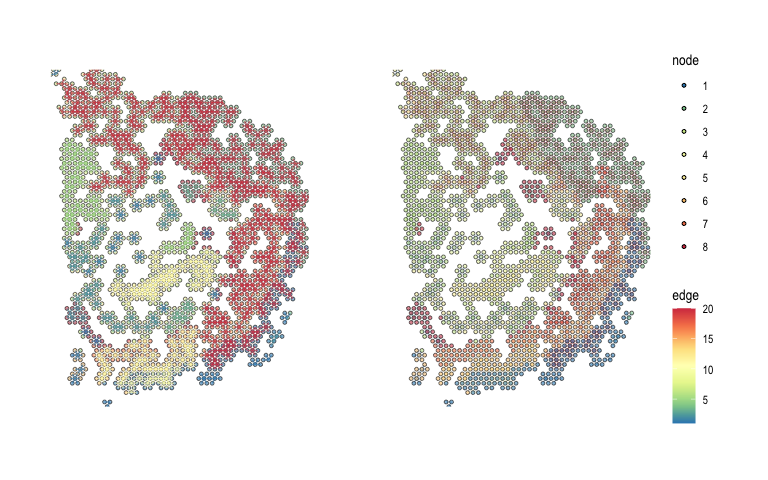
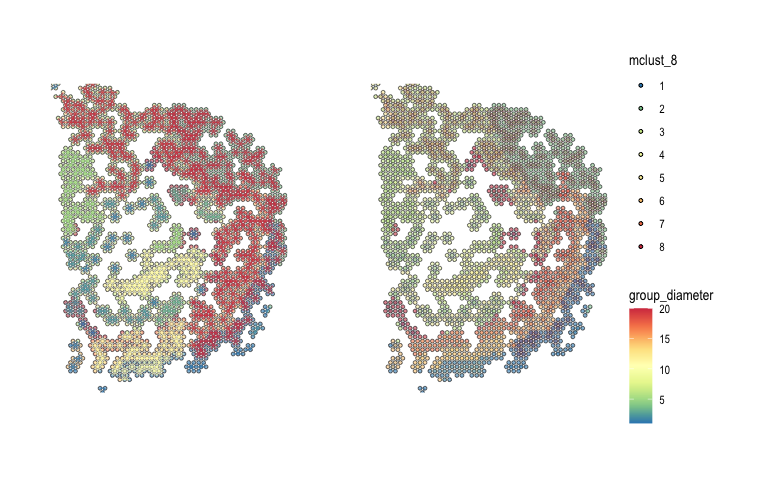
README.Rmd updated with tidy_up_ccc_graph().

diff --git a/README.md b/README.md
@@ -75,20 +75,20 @@ LRdb_m <-
 
 LRdb_m %>% 
   arrange(ligand_gene_symbol, receptor_gene_symbol)
-#> # A tibble: 104 × 10
+#> # A tibble: 105 × 10
 #>    LR    ligand_gene_symbol receptor_gene_symbol ligand_gene_id receptor_gene_id
 #>    <chr> <chr>              <chr>                         <dbl>            <dbl>
-#>  1 Adam… Adam12             Epha1                         11489            13835
-#>  2 Adam… Adam17             Aplp2                         11491            11804
-#>  3 Adam… Adam2              Itga9                         11495           104099
-#>  4 Adip… Adipoq             Adipor1                       11450            72674
-#>  5 Alka… Alkal2             Alk                       100294583            11682
-#>  6 Anxa… Anxa1              Dysf                          16952            26903
-#>  7 Apoe… Apoe               Scarb1                        11816            20778
-#>  8 Apoe… Apoe               Sdc1                          11816            20969
-#>  9 App_… App                Cd74                          11820            16149
+#>  1 Ada_… Ada                Dpp4                          11486            13482
+#>  2 Adam… Adam10             Il6ra                         11487            16194
+#>  3 Adam… Adam10             Notch1                        11487            18128
+#>  4 Adam… Adam17             Cd40                          11491            21939
+#>  5 Apoa… Apoa1              Abca1                         11806            11303
+#>  6 Apob… Apob               Cd36                         238055            12491
+#>  7 Apob… Apob               Lrp1                         238055            16971
+#>  8 Apob… Apob               Lrp2                         238055            14725
+#>  9 Apoe… Apoe               Sdc1                          11816            20969
 #> 10 App_… App                Dcc                           11820            13176
-#> # ℹ 94 more rows
+#> # ℹ 95 more rows
 #> # ℹ 5 more variables: ligand_ensembl_protein_id <chr>,
 #> #   receptor_ensembl_protein_id <chr>, ligand_ensembl_gene_id <chr>,
 #> #   receptor_ensembl_gene_id <chr>, evidence <chr>
@@ -148,7 +148,7 @@ ccc_tbl <- compute_spatial_ccc(spe = spe_brain,
                                assay_name = "logcounts",
                                LRdb = LRdb_m)
 tictoc::toc()
-#> 7.329 sec elapsed
+#> 7.124 sec elapsed
 
 # future::plan(future::sequential)
 ```
@@ -156,20 +156,20 @@ tictoc::toc()
 ``` r
 ccc_tbl %>% 
   dplyr::arrange(desc(LRscore))
-#> # A tibble: 141,605 × 10
+#> # A tibble: 131,750 × 10
 #>    src         dst       d norm.d LR    ligand receptor LRscore  weight WLRscore
 #>    <chr>       <chr> <dbl>  <dbl> <chr> <chr>  <chr>      <dbl>   <dbl>    <dbl>
-#>  1 GACGTGTAGG… GACG…    0    0    App_… App    Lrp10      0.859 Inf      Inf    
-#>  2 GGTGCTGGTA… GGTG…    0    0    App_… App    Cd74       0.852 Inf      Inf    
-#>  3 GGGCGGTCCT… GGGT…  138    1.01 Gnai… Gnai2  Cnr1       0.852   0.986    0.839
-#>  4 AAATAGCTTA… CTAG…  138    1.01 Gnai… Gnai2  Cnr1       0.851   0.986    0.838
-#>  5 CACCCAAATC… CTAG…  138.   1.01 Gnai… Gnai2  Cnr1       0.850   0.980    0.833
-#>  6 ACGGAATTTA… GGGT…  138.   1.01 Gnai… Gnai2  Cnr1       0.850   0.980    0.833
-#>  7 AGCTCTTTAC… GGTG…  138.   1.00 App_… App    Cd74       0.850   0.992    0.843
-#>  8 AACAGGATGG… GACG…  138.   1.01 App_… App    Lrp10      0.847   0.980    0.830
-#>  9 AGGACGACCC… GGTG…  138.   1.01 App_… App    Cd74       0.847   0.980    0.830
-#> 10 AGAAGGTTGC… GGTG…  138    1.01 App_… App    Cd74       0.847   0.986    0.834
-#> # ℹ 141,595 more rows
+#>  1 GGAGCGAGGC… CCTA…  138.   1.01 Ptn_… Ptn    Sdc2       0.848   0.980    0.830
+#>  2 TCCGTTTAGC… AGGG…  138.   1.01 Sst_… Sst    Sstr2      0.848   0.980    0.830
+#>  3 TATAGTTAGG… TACG…  138.   1.01 Ptn_… Ptn    Sdc2       0.847   0.980    0.830
+#>  4 GAGGTACGCG… CCTA…  138.   1.01 Ptn_… Ptn    Sdc2       0.843   0.987    0.832
+#>  5 TCGCGTCCAG… TCGC…    0    0    App_… App    Ncstn      0.842 Inf      Inf    
+#>  6 AGTCTGGACA… AGTC…    0    0    App_… App    Ncstn      0.841 Inf      Inf    
+#>  7 GCGAGAGTTG… GCGA…    0    0    Ptn_… Ptn    Sdc2       0.840 Inf      Inf    
+#>  8 GCGAGAGTTG… ACTT…  138.   1.01 Ptn_… Ptn    Sdc2       0.840   0.980    0.822
+#>  9 AACTTCTGCG… AGTC…  138    1.01 App_… App    Ncstn      0.838   0.986    0.826
+#> 10 CCCTCATTCT… GAGT…  138.   1.01 App_… App    Ncstn      0.836   0.980    0.819
+#> # ℹ 131,740 more rows
 ```
 
 ``` r
@@ -191,7 +191,7 @@ ccc_graph_list <-
   to_spatial_ccc_graph_list(ccc_tbl, sp_col_data, workers = 6)
 
 tictoc::toc()
-#> to_spatical_ccc_graph ...: 11.187 sec elapsed
+#> to_spatical_ccc_graph ...: 12.019 sec elapsed
 ```
 
 summarize_ccc_graph_metrics() summarize those graph metrics for each LR
@@ -204,26 +204,26 @@ ccc_graph_metrics_summary_df <-
   summarize_ccc_graph_metrics(ccc_graph_list)
 
 tictoc::toc()
-#> 0.059 sec elapsed
+#> 0.068 sec elapsed
 ```
 
 ``` r
 ccc_graph_metrics_summary_df %>%
   arrange(graph_component_count)
-#> # A tibble: 44 × 12
+#> # A tibble: 50 × 12
 #>    LR        graph_n_nodes graph_n_edges graph_component_count graph_motif_count
 #>    <chr>             <int>         <dbl>                 <dbl>             <int>
-#>  1 Nlgn1_Nr…          2627         11042                     3             20957
-#>  2 S100b_Al…          2657         13613                     3             24055
-#>  3 App_Lrp10          2646          9835                     5             19655
-#>  4 Rtn4_Rtn…          2590         11251                     5             20250
-#>  5 Sema6d_T…          2281          7492                     5             14186
-#>  6 Gnai2_Cn…          2527         11392                     6             20558
-#>  7 Calm2_Gr…          2542          8040                     9             16302
-#>  8 Vegfa_Sd…          1993          5096                    15              9112
-#>  9 Fgf9_Fgf…          2009          4942                    20              9532
-#> 10 Efna3_Ep…          1900          4272                    21              7666
-#> # ℹ 34 more rows
+#>  1 Egfl7_It…          2338          8135                     3             15373
+#>  2 App_Ncstn          2675         11287                     3             21977
+#>  3 Ptn_Sdc2           2608          9614                     3             18582
+#>  4 Cx3cl1_I…          2617         11724                     4             21978
+#>  5 S100a1_R…          2591         10689                     5             20094
+#>  6 Efnb3_Ep…          2381          7807                     6             15265
+#>  7 Bsg_Cav1           2237          4470                    23              9423
+#>  8 Wnt10a_F…            92            74                    32                48
+#>  9 Flt3l_Fl…            80            55                    34                14
+#> 10 Cxcl12_G…          1763          3223                    42              5310
+#> # ℹ 40 more rows
 #> # ℹ 7 more variables: graph_diameter <dbl>, graph_un_diameter <dbl>,
 #> #   graph_mean_dist <dbl>, graph_circuit_rank <dbl>, graph_reciprocity <dbl>,
 #> #   graph_clique_num <int>, graph_clique_count <int>
@@ -239,25 +239,25 @@ ccc_graph_group_metrics_summary_df <-
   summarize_ccc_graph_metrics(ccc_graph_list, level = "group")
 
 tictoc::toc()
-#> 0.058 sec elapsed
+#> 0.066 sec elapsed
 ```
 
 ``` r
 ccc_graph_group_metrics_summary_df 
-#> # A tibble: 3,154 × 12
-#>    LR         group group_n_nodes group_n_edges group_adhesion group_motif_count
-#>    <chr>      <int>         <int>         <dbl>          <dbl>             <int>
-#>  1 Wnt5a_Fzd3    66             4             4              0                 3
-#>  2 Wnt5a_Fzd3    25            15            23              0                34
-#>  3 Wnt5a_Fzd3     7            46           110              0               184
-#>  4 Wnt5a_Fzd3     1           183           383              0               727
-#>  5 Wnt5a_Fzd3     5            49            85              0               156
-#>  6 Wnt5a_Fzd3    84             2             1              0                 0
-#>  7 Wnt5a_Fzd3    17            21            26              0                48
-#>  8 Wnt5a_Fzd3    11            38           120              0               192
-#>  9 Wnt5a_Fzd3    20            18            31              0                55
-#> 10 Wnt5a_Fzd3     6            49            66              0               122
-#> # ℹ 3,144 more rows
+#> # A tibble: 3,855 × 12
+#>    LR       group group_n_nodes group_n_edges group_adhesion group_motif_count
+#>    <chr>    <int>         <int>         <dbl>          <dbl>             <int>
+#>  1 Bsg_Cav1     1          1913          3970              0              8432
+#>  2 Bsg_Cav1     6            18            23              0                44
+#>  3 Bsg_Cav1    19             5             5              0                 6
+#>  4 Bsg_Cav1     2            63           134              0               276
+#>  5 Bsg_Cav1    14             7             7              0                15
+#>  6 Bsg_Cav1     5            23            28              0                65
+#>  7 Bsg_Cav1     7            17            22              0                43
+#>  8 Bsg_Cav1    15             7             7              0                15
+#>  9 Bsg_Cav1    12             8            11              0                15
+#> 10 Bsg_Cav1     4            24            42              0                87
+#> # ℹ 3,845 more rows
 #> # ℹ 6 more variables: group_diameter <dbl>, group_un_diameter <dbl>,
 #> #   group_mean_dist <dbl>, group_girth <dbl>, group_circuit_rank <dbl>,
 #> #   group_reciprocity <dbl>
@@ -322,40 +322,55 @@ wrap_plots(gp_spccc, gp_spccc_0, ncol = 2)
 <img src="man/figures/README-plot-spatial-ccc-graph-tissue-image-1.png" width="100%" />
 
 ``` r
+ccc_graph_temp <-
+  ccc_graph_list[[LR_of_interest]] %>%
+  tidygraph::activate("edges") %>%
+  tidygraph::filter(mclust_8.src != mclust_8.dst) %>%
+  tidy_up_ccc_graph()
+
+cells_of_interest <-
+  ccc_graph_temp %>%
+  tidygraph::activate("nodes") %>%
+  dplyr::pull("name")
+```
+
+``` r
 gp_spccc <-
   plot_spatial_ccc_graph(
-    ccc_graph = 
-      ccc_graph_list[[LR_of_interest]] %>%
-      tidygraph::activate(edges) %>%
-      tidygraph::filter(mclust_8.src != mclust_8.dst),
-    tissue_img = imgRaster(spe_brain),
+    ccc_graph = ccc_graph_temp,
+    tissue_img = SpatialExperiment::imgRaster(spe_brain),
+    edges_expanded_to_group = FALSE,
     node_color = "mclust_8",
-    node_size = 1,
+    node_size = 1.5,
     node_alpha = 0.5,
-    edge_color = "group_diameter",
+    edge_color = "group_n_edges",
+    edge_width = 4,
     # clip = TRUE,
-    which_on_top = "edge"
+    which_on_top = "node"
   )
 
 gp_spccc_0 <-
   plot_spatial_ccc_graph(
-    ccc_graph =
-      ccc_graph_list[[LR_of_interest]] %>%
-      tidygraph::activate(edges) %>%
-      tidygraph::filter(mclust_8.src != mclust_8.dst),
-    tissue_img = imgRaster(spe_brain),
+    ccc_graph = ccc_graph_list[[LR_of_interest]],
+    tissue_img = SpatialExperiment::imgRaster(spe_brain),
+    cells_of_interest = cells_of_interest,
+    edges_expanded_to_group = FALSE,
     node_color = "mclust_8",
     node_size = 1,
     node_alpha = 0.5,
-    edge_color = "group_diameter",
-    # clip = FALSE,
-    image_alpha = 0.75,
-    which_on_top = "edge"
+    edge_color = "group_n_edges",
+    # clip = TRUE,
+    which_on_top = "node"
   )
+
+gp_spccc_1 <-
+  plot_spatial_feature(spe = spe_brain,
+                       feature = "mclust_8",
+                       cells_of_interest = cells_of_interest)
 ```
 
 ``` r
-wrap_plots(gp_spccc, gp_spccc_0, ncol = 2, guides = "collect")
+wrap_plots(gp_spccc, gp_spccc_1, ncol = 2)
 ```
 
 <img src="man/figures/README-plot-spatial-ccc-graph-tissue-overlapped-cell-cluster-1.png" width="100%" />
@@ -436,7 +451,7 @@ cell_overlap_dist <-
   dist_cell_overlap_ccc_tbl(ccc_tbl)
 
 tictoc::toc()
-#> 0.363 sec elapsed
+#> 0.38 sec elapsed
 ```
 
 ``` r
@@ -446,7 +461,7 @@ cell_overlap_lf <-
   lf_cell_overlap_ccc_tbl(ccc_tbl)
 
 tictoc::toc()
-#> 0.46 sec elapsed
+#> 0.42 sec elapsed
 ```
 
 ``` r
@@ -459,7 +474,7 @@ LRs_high_cell_overlap <-
   unlist() %>% unique()
 
 tictoc::toc()
-#> 0.003 sec elapsed
+#> 0.002 sec elapsed
 ```
 
 ``` r
@@ -482,7 +497,7 @@ high_cell_overlap_dist2 <-
   lf_to_dist()
 
 tictoc::toc()
-#> 0.006 sec elapsed
+#> 0.007 sec elapsed
 ```
 
 ``` r
